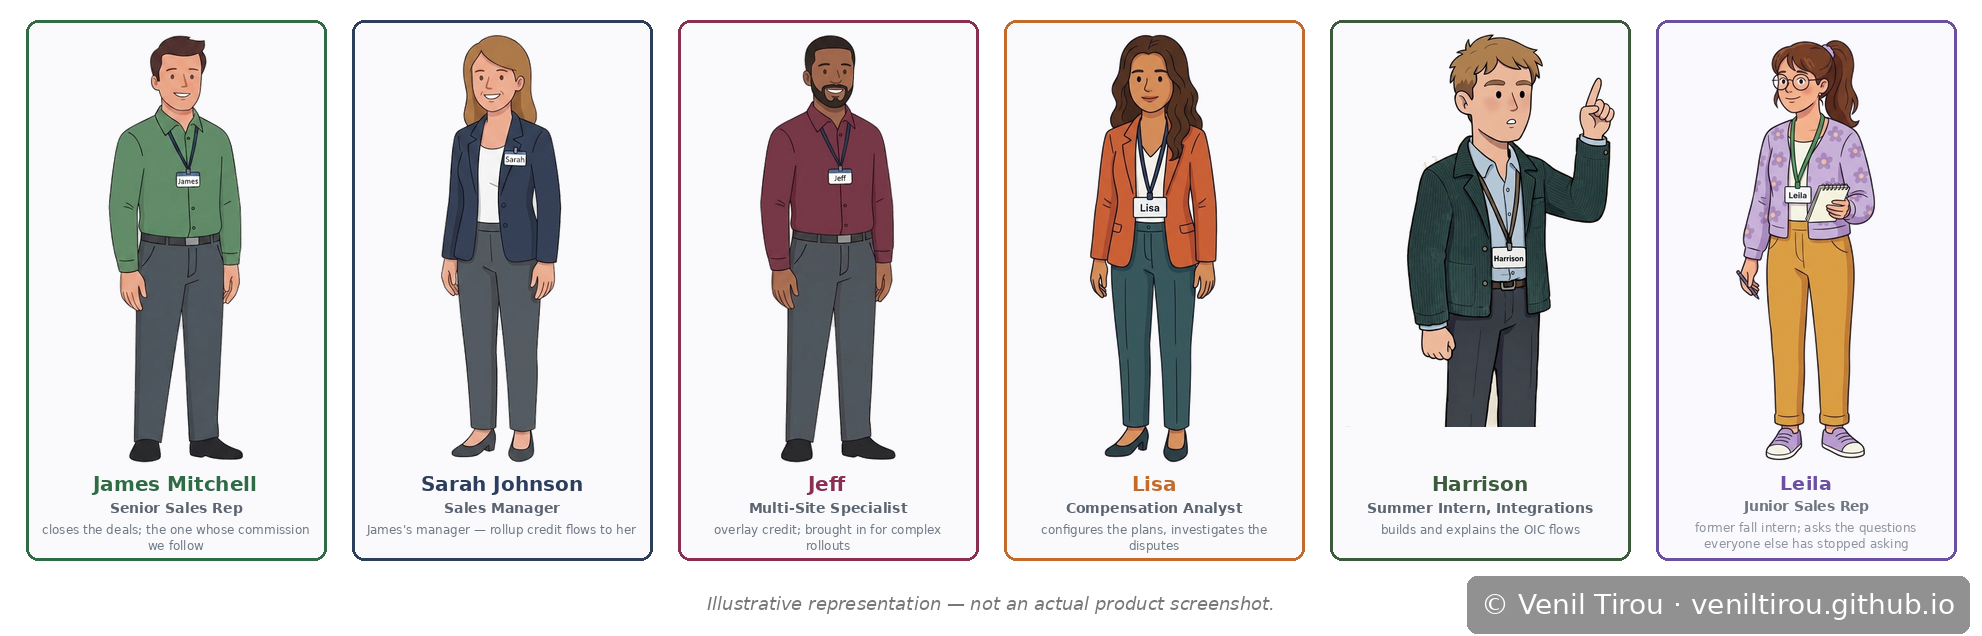
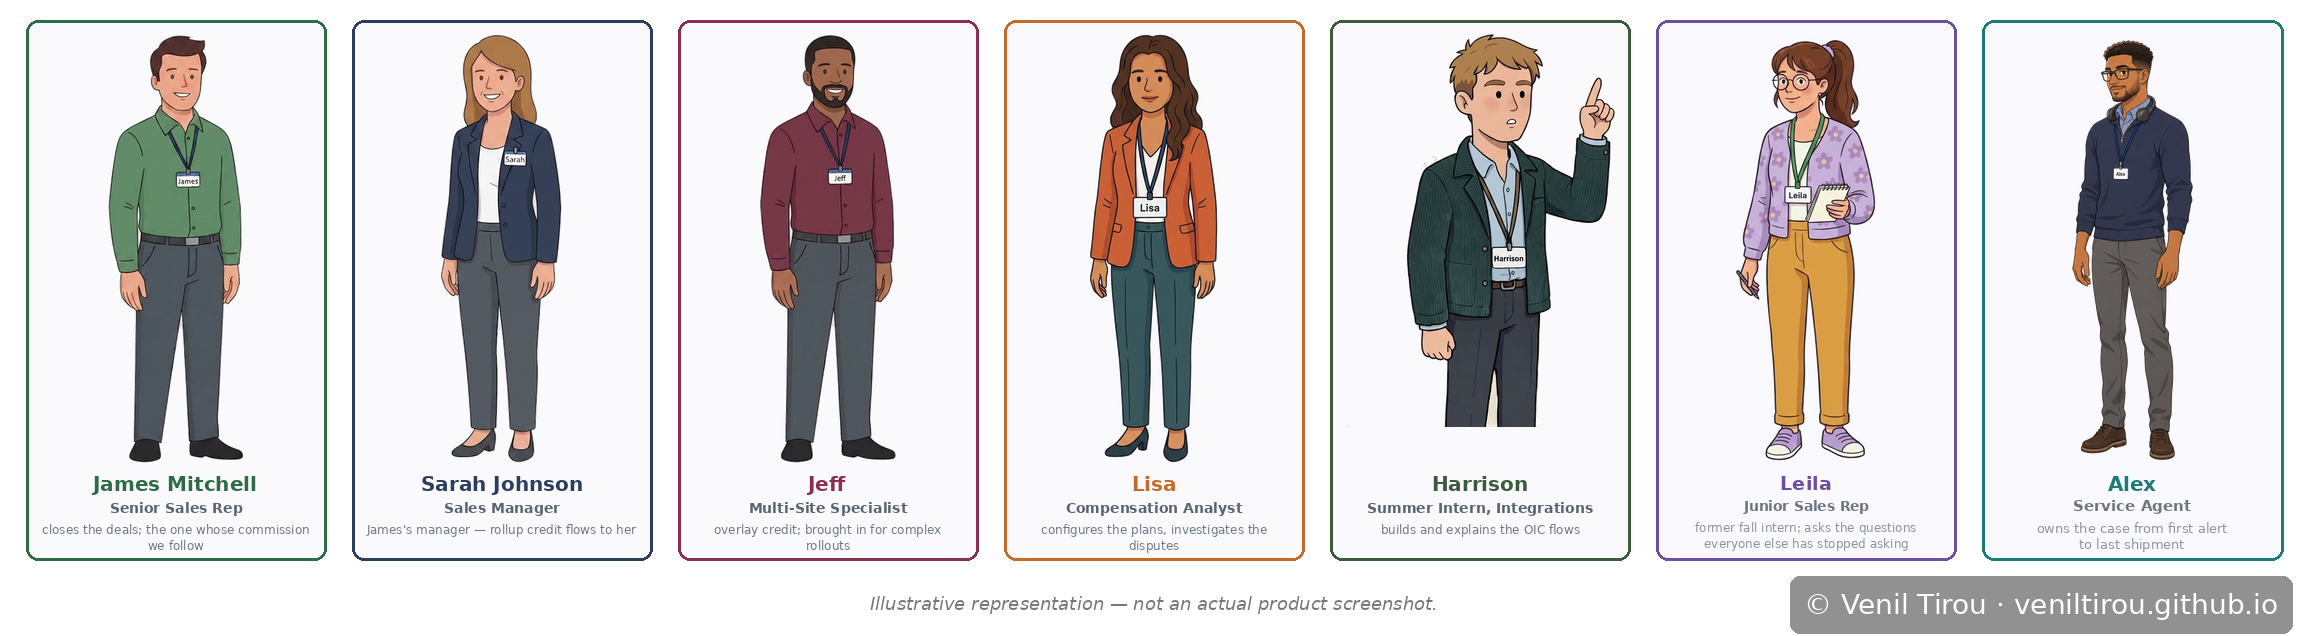
ABC World: add Alex to the cast lineup and The People
- Cast lineup (abc-world/Scene01.png): seventh card for Alex, Service
  Agent, matching the existing cards' border, type sizes and figure height
- The People: introduces Alex; "these six" -> "these seven"
- The Customers: Mile High's Denver branch links to Chapter 5
- CHARACTERS.md: Alex locked (second appearance, Rule 3)

Claude-Session: https://claude.ai/code/session_01AkUNH6ToaWaaKjdoW9PcFX

diff --git a/abc-world/index.html b/abc-world/index.html
@@ -349,7 +349,7 @@
 
     <h2>The People</h2>
     <div class="storyboard">
-      <img src="Scene01.png" alt="The recurring cast: James Mitchell, Sarah Johnson, Jeff, Lisa, Harrison and Leila" />
+      <img src="Scene01.png" alt="The recurring cast: James Mitchell, Sarah Johnson, Jeff, Lisa, Harrison, Leila and Alex" />
       <p class="tip">📱 On mobile? Pinch to zoom to read the details clearly.</p>
       <div class="what-it-shows">
         <strong>Who you will keep meeting.</strong> <strong>James Mitchell</strong>
@@ -365,9 +365,12 @@
         <strong>Leila</strong> joined as the fall intern from a local Denver
         university and is now a junior sales rep on James's team, still new
         enough to ask the questions everyone else has stopped asking.
+        <strong>Alex</strong> is the service agent in Fusion B2B Service: when a
+        customer's machine needs help, he owns the case from the first alert to
+        the last shipment.
         <br><br>
         Others appear as the stories need them — Mike on a split credit, Priya
-        and Daniel in a dispute queue — but these six carry most of it.
+        and Daniel in a dispute queue — but these seven carry most of it.
       </div>
     </div>
 
@@ -383,7 +386,8 @@
         needed its own integration. <strong>Route 66 Automobiles</strong> is a
         dealership group and the source of ABC's largest single order.
         <strong>Mile High City Bank</strong> buys online through the self-service
-        portal rather than through a sales rep. <strong>XYZ Corporation</strong>
+        portal rather than through a sales rep, and its Denver branch is home to
+        the vending machine that reported its own failure in Chapter 5. <strong>XYZ Corporation</strong>
         is the $78,500 deal followed from Closed Won to a paycheck.
         <br><br>
         They recur deliberately. The hilltop site in the replenishment chapter is

diff --git a/CHARACTERS.md b/CHARACTERS.md
@@ -56,7 +56,7 @@ below describe target state for new work, not a mandate to fix old work.
 | **Lisa** | 🔒 Locked (decided 2026-10-28) | *Active:* Incentive Compensation: The Big Picture (Transaction Processing in a Nutshell banner; portrait cropped from the reference, mirrored to face Leila); The World of ABC Corporation (cast lineup, fourth card); I1 One Deal, Three Credits (Scene 10); I2 When the Payment Isn't Final (Scene 1, small figure); I3 Disputes (Scene 4); Chapter 4 Oracle Commerce: Mile High City Bank (Scene 1); I5 Leila's Nine-Month Runway; I6 From Order to Earnings; I7 Five Questions Before Payday; I8 When the Cash Arrives; I9 Quick Take: Why $5,000 Pays $90; I10 One Deal, Two Branches. *Frozen:* Chapter 3 Incentive Compensation | Compensation Analyst. **Canonical look (the I5/I6 lineage):** long wavy dark-brown hair past the shoulders, warm tan skin, burnt-orange blazer over a white V-neck top, navy lanyard with a white "Lisa" badge, dark teal trousers, dark low heels. Reference: `characters/lisa-reference.jpg` (cropped from `leila-runway/Runway01.jpg` and `Runway07.jpg`). Every active appearance now matches: the cast lineup card, I1 Scene 10, I2 Scene 1, I3 Scene 4 and Chapter 4 Scene 1 were redrawn on 2026-10-28. In I1 Scene 10 the whiteboard diagram was moved slightly right and scaled to 95% so her longer hair no longer covers "Direct". |
 | **Leila (ABC)** | 🔒 Locked (canonical look changed 2026-10-28) | *Active:* Incentive Compensation: The Big Picture (Transaction Processing in a Nutshell banner; portrait cropped from the reference); I4 Three Transactions, One Paycheck (Prologue); The World of ABC Corporation (cast lineup, sixth card); I5 Leila's Nine-Month Runway; I6 From Order to Earnings; I7 Five Questions Before Payday; I8 When the Cash Arrives; I9 Quick Take: Why $5,000 Pays $90; I10 One Deal, Two Branches | Joined as the fall intern from a local Denver university (I4, October 2026); a junior sales rep on James's team from I5 on. **Canonical look (the I5/I6 lineage):** early twenties, medium chestnut-brown high ponytail with a lavender scrunchie, thin round dark glasses, lavender cardigan with a lighter lavender flower pattern over a white top, mustard-yellow trousers, lavender sneakers. **The lanyard marks her role:** teal with a "Leila – Intern" badge while she is an intern (I4); green with a "Leila" badge as a junior rep (I5 on). Reference: `characters/leila-reference.jpg` (cropped from `leila-runway/Runway01.jpg` and `Runway03.jpg`). This replaces the earlier lock (honey-brown ponytail, dark rectangular glasses, dark grey trousers). The cast lineup card and the I4 Prologue were redrawn on 2026-10-28. **Known variance:** the I4 Prologue keeps its original cardigan pattern (small white flowers) because Gemini's redraw of the pattern came out smudged; the colour and cut match, and her hair, glasses and scrunchie are canonical. |
 | **Cynthia Michael** | 🔒 Locked (decided 2026-11-25) | *Active:* Chapter 4 Oracle Commerce: Mile High City Bank (Scenes 4, 5, 6, 10); Chapter 5 The Vending Machine That Called for Help | Mile High City Bank facilities team; the bank's contact for ABC. **Canonical look (the Chapter 4 lineage):** East Asian woman, thirties, straight black shoulder-length hair with side part, teal blazer, blush blouse, dark trousers, white name badge reading "Cynthia". Reference: `characters/cynthia-reference.png` (cropped from `commerce-mile-high/Scene11.png`). Drawn the same way in every Chapter 4 scene, so no redraw was needed. |
-| **Alex** | ⚪ Free | *Active:* Chapter 5 The Vending Machine That Called for Help | ABC Corporation service agent (support engineer) in Fusion B2B Service. New in Chapter 5; design spec in `rma-loaner-repair/PROMPTS.md`. **Reference:** `characters/alex-reference.png` (cropped from Chapter 5 Scene 3): warm brown skin, short black curly hair with a fade, short beard, rectangular dark-framed glasses, navy quarter-zip over a light-blue shirt, headset, navy lanyard with an "Alex" badge. Becomes 🟡 Pending the moment he appears in a second chapter (for example a general Fusion Service chapter). |
+| **Alex** | 🔒 Locked (decided 2026-11-25) | *Active:* Chapter 5 The Vending Machine That Called for Help; The World of ABC Corporation (cast lineup, seventh card) | ABC Corporation service agent (support engineer) in Fusion B2B Service. New in Chapter 5; design spec in `rma-loaner-repair/PROMPTS.md`. **Reference:** `characters/alex-reference.png` (cropped from Chapter 5 Scene 3): warm brown skin, short black curly hair with a fade, short beard, rectangular dark-framed glasses, navy quarter-zip over a light-blue shirt, headset, navy lanyard with an "Alex" badge. |
 | **Disha** | ⚪ Free (named only, never drawn) | *Active:* I10 One Deal, Two Branches (mentioned) | The Cheyenne, Wyoming rep who ships Leila's Front Range Hospital deal in months 1 to 3. She is named in speech bubbles and on the projector but never drawn. If she is ever drawn, she becomes 🟡 Pending and gets a canonical pick. Sarah is also named in I10 as Leila's manager, but not drawn, so her status doesn't change. |
 
 ## Decision log
@@ -86,6 +86,11 @@ green as a junior rep). Everything else about her look is fixed.
 brings her back, which triggers Rule 3. Chapter 4 draws her identically in
 all four of her scenes, so that look becomes canonical with no redraws.
 Her reference is cropped from `commerce-mile-high/Scene11.png`.
+
+**2026-11-25: Alex locks to his Chapter 5 look.** Adding him to the cast
+lineup on The World of ABC Corporation is his second appearance, so Rule 3
+applies. His Chapter 5 look is the only one and is used for the lineup
+figure; the reference stays `characters/alex-reference.png`.
 
 ## Workflow going forward
 
